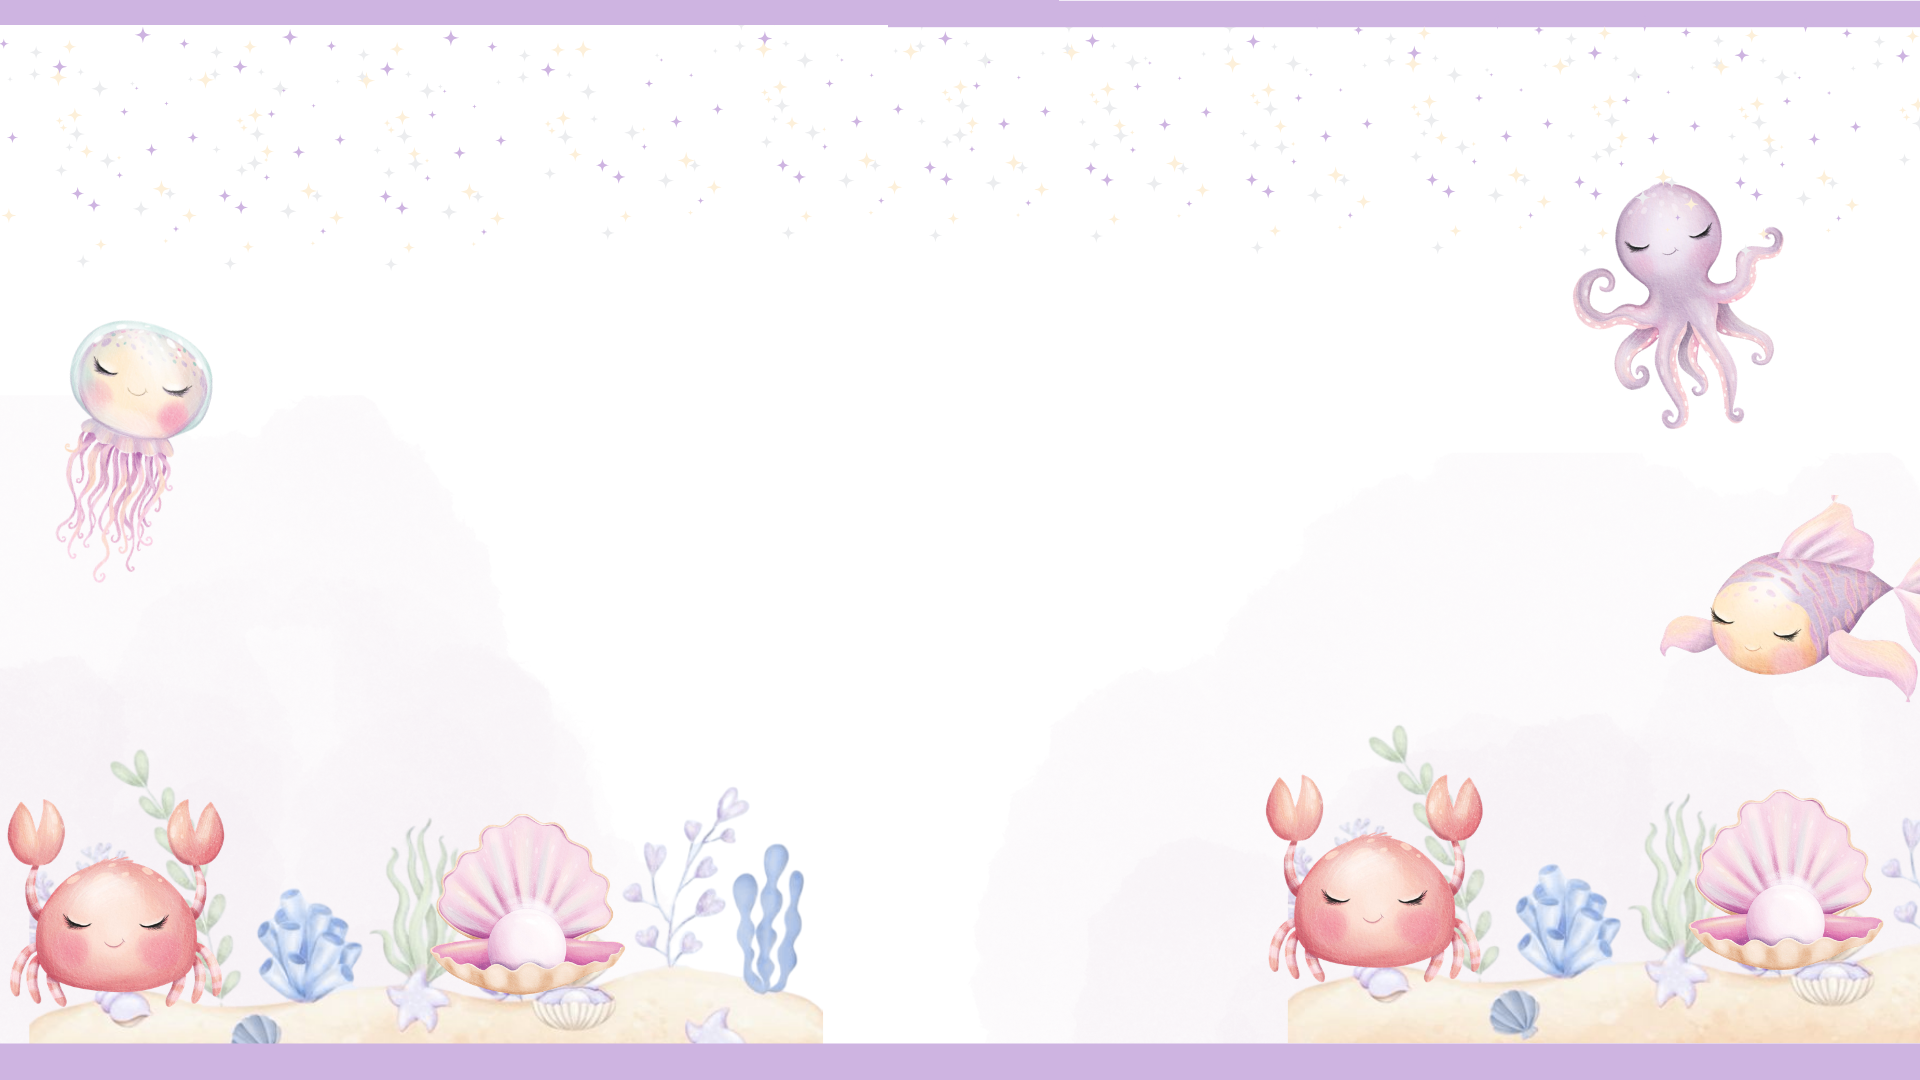
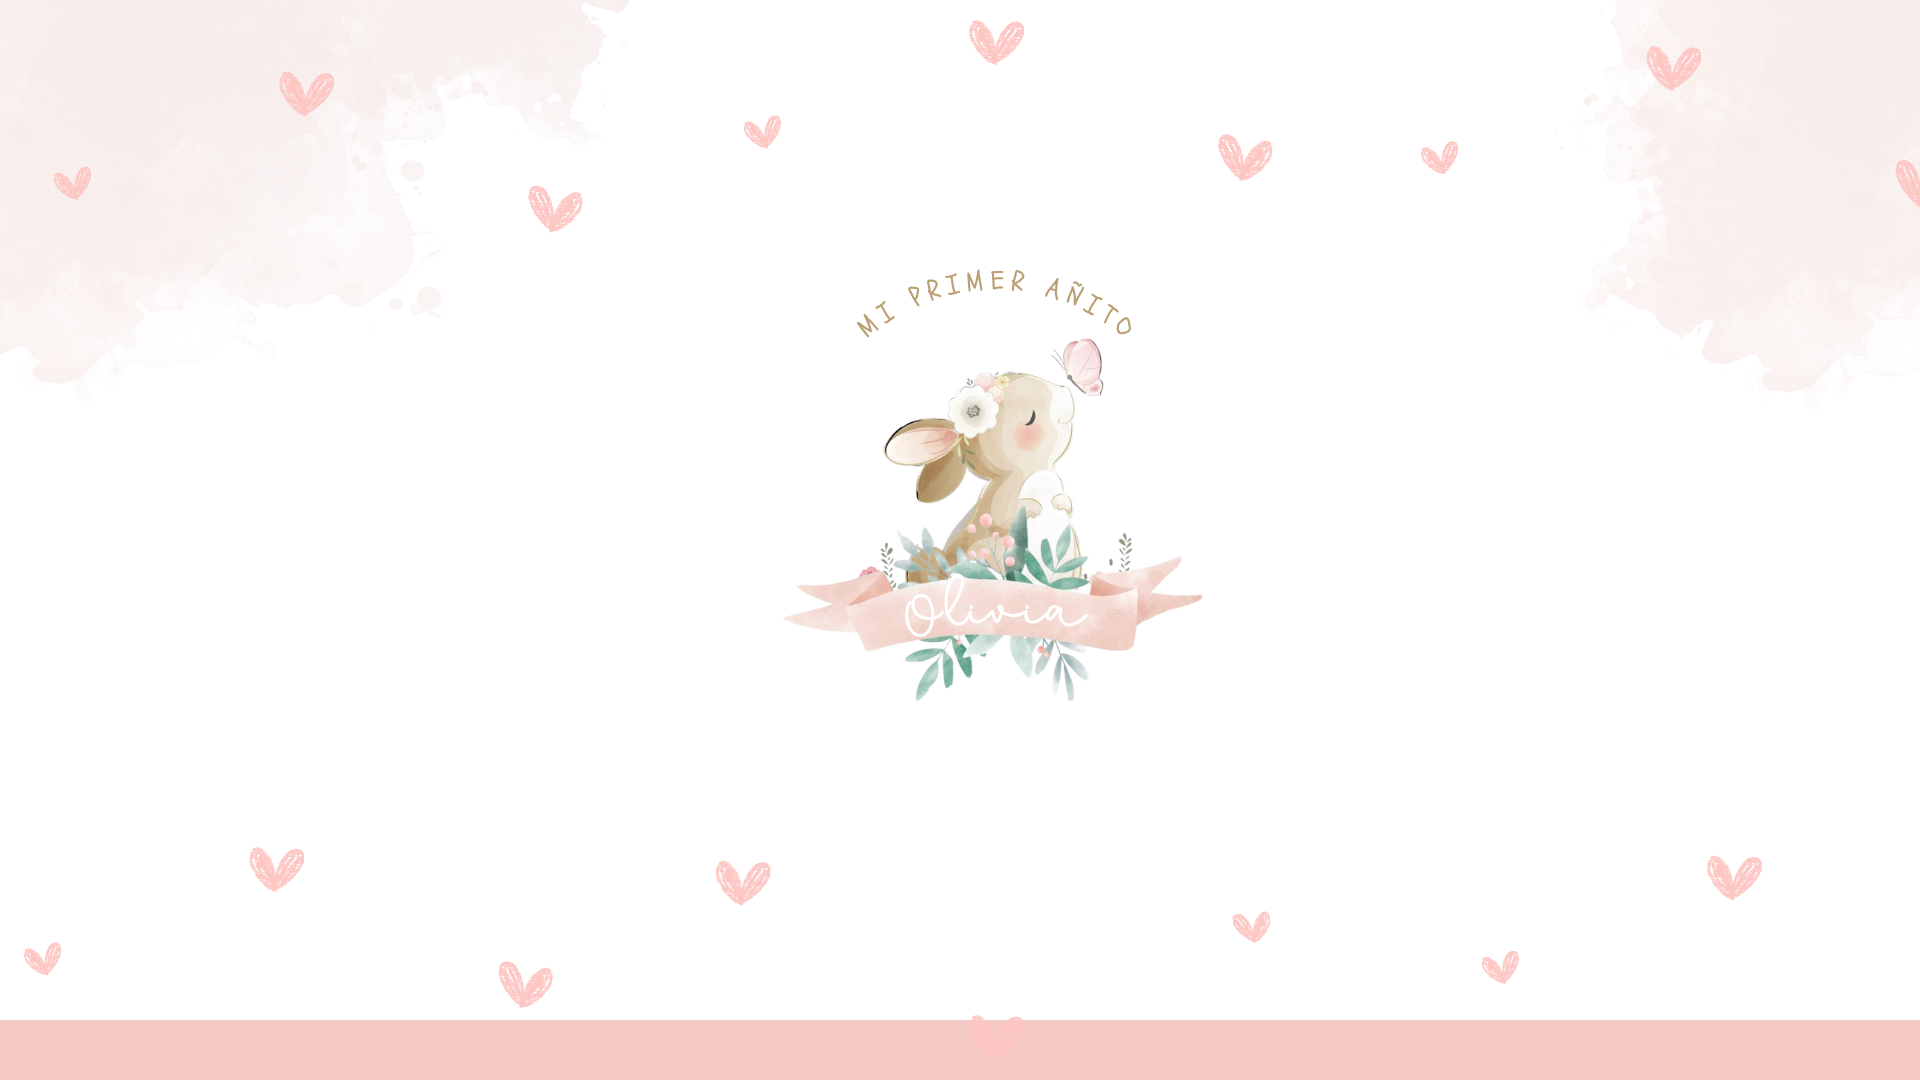
ac
ac

diff --git a/style.css b/style.css
@@ -247,7 +247,7 @@ main p {
 }
 .segundo {
     width: 100%;
-    height: 60vh;
+    height: 90vh;
     padding: 0;
     margin: 0;
     color: var(--color-principal);
